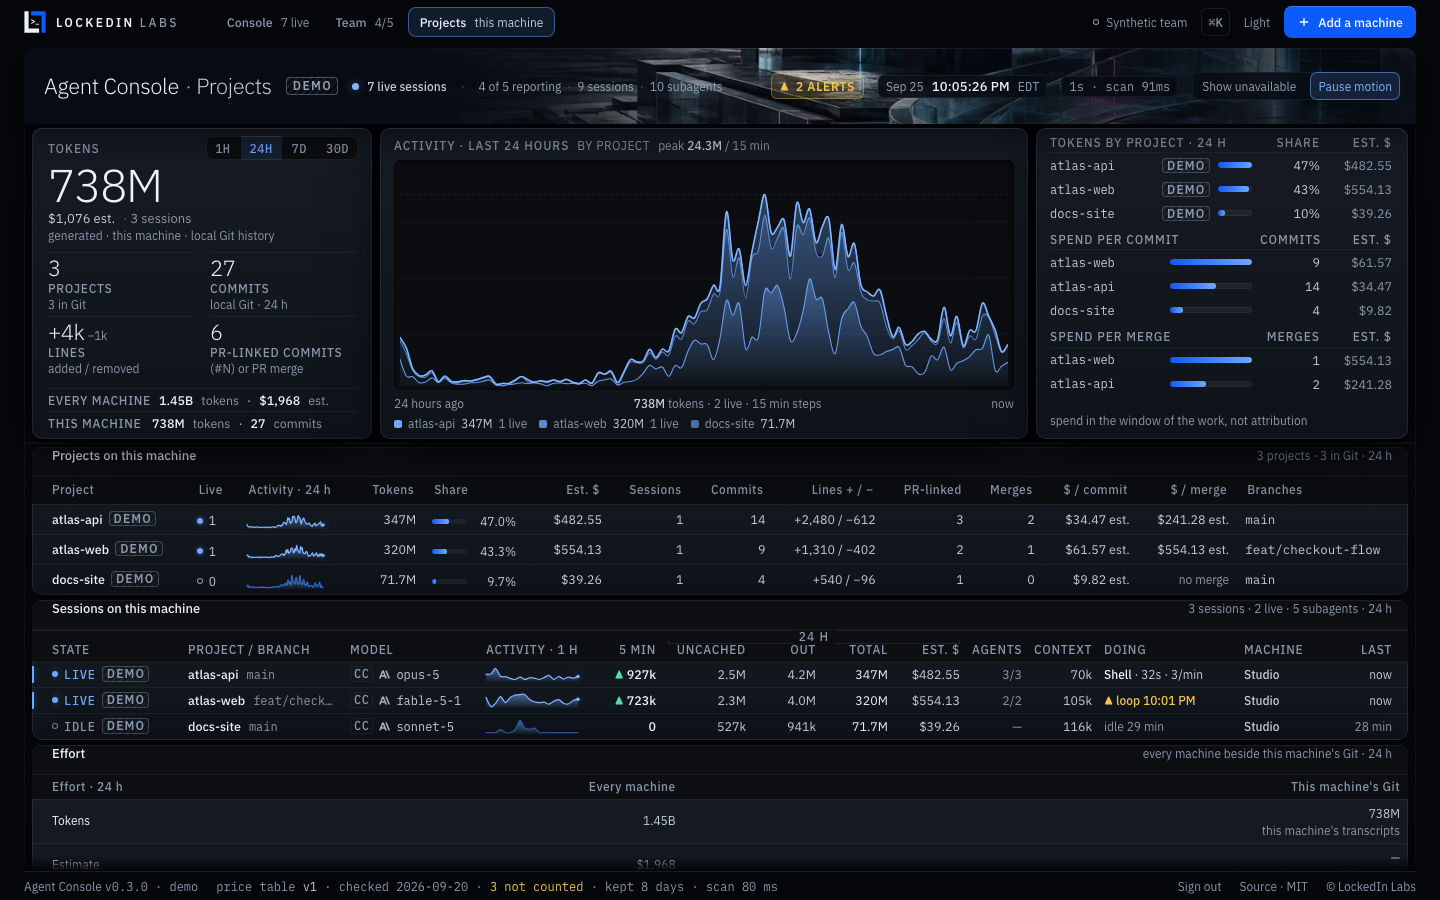
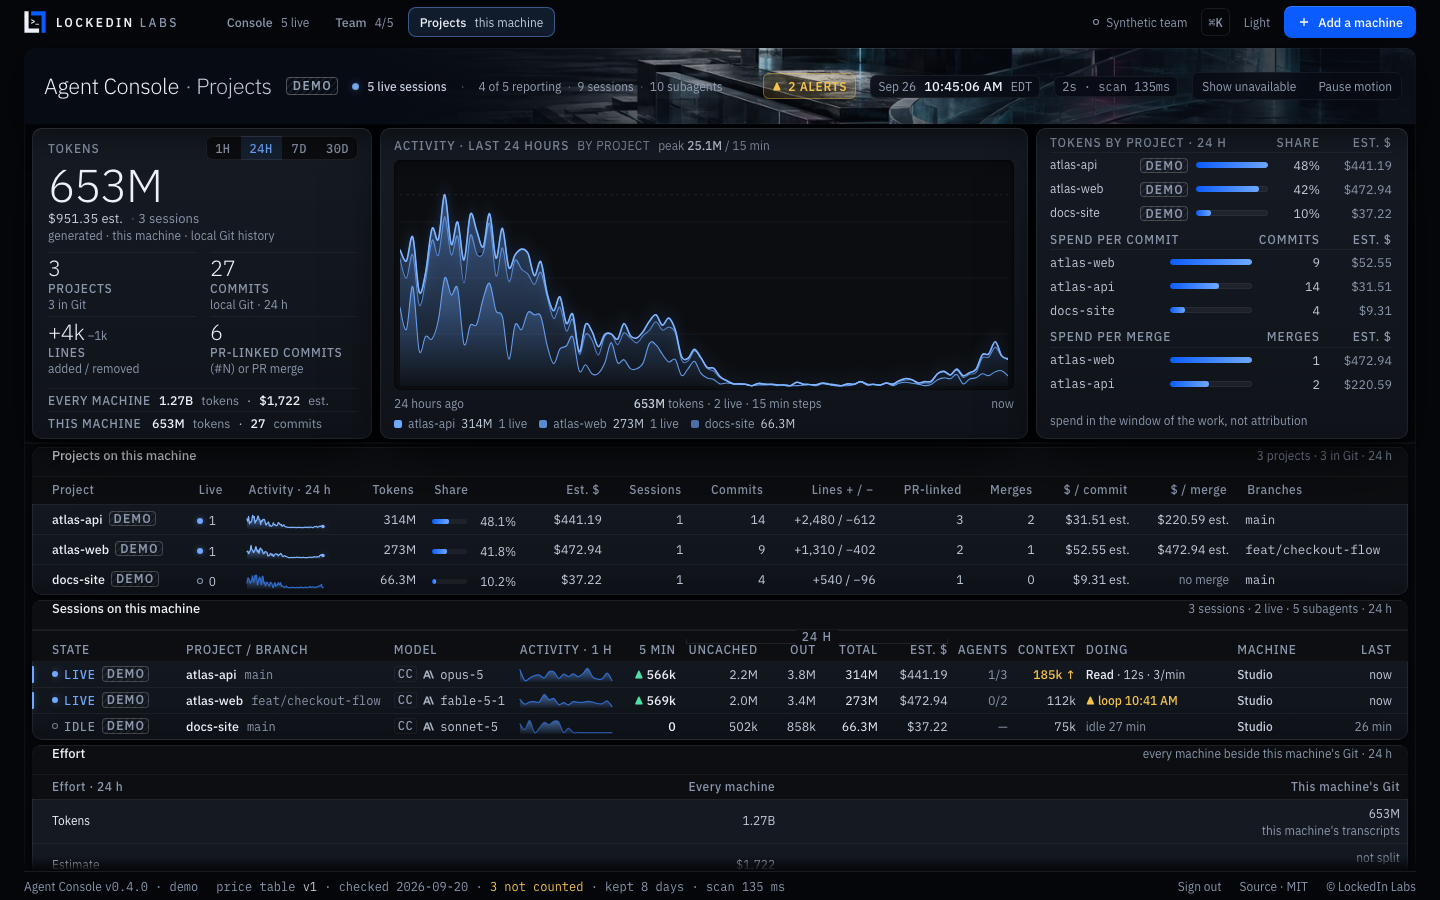
The lane name keeps its cell at 1440, the project ranking wraps its names, docs retaken
- The lane's project cell is a grid whose first track is the name's own
  width: the branch beside it takes what is left and gives way first, so a
  three-word project is never cut beside a four-letter branch, and alone it
  keeps the whole cell (the phone keeps the name over its branch).
- The desk grid (1440 up to 1799) holds each figure column to what its widest
  header or value needs, with a 10px gap, so the frame's room goes to the
  name first: its track is ~205px at 1440 (it was 150px, the grid's exact
  minimum), and the model's is 116px so a short model name stays whole.
- Projects' "tokens by project" rows give the name the room in the sans the
  table names them in, hold the bar to a short fixed span, and wrap a name
  longer than its track to a second line rather than cut it; the rows no
  longer push the band sideways at 360.
- The presented-page probe holds the source to no home path (the names are
  held by the walk over every text node and attribute); the join probe
  expects the demonstration's one warn line.
- README screenshots retaken from --demo on this build.

diff --git a/public/console.css b/public/console.css
@@ -308,8 +308,12 @@ body.paused .wave .top, .flowwrap.void .wave .top { filter: none; }
 .mrow { display: grid; grid-template-columns: calc(104px * var(--k)) auto 1fr calc(60px * var(--k)) calc(64px * var(--k)); align-items: center; gap: calc(8px * var(--k)); margin-top: calc(1px * var(--k)); line-height: 1.2; min-height: calc(17px * var(--k)); }
 /* a row that opens an inspector is a 24px target (WCAG 2.5.8): the type keeps its size, the row takes the height */
 .mrow.door { min-height: 24px; margin-top: 0; cursor: pointer; }
-/* a ranking of projects (R3-15): the name is the reading and keeps its words; the bar is the illustration and is fixed */
-.mrow.proj { grid-template-columns: minmax(calc(120px * var(--k)), 1fr) auto calc(90px * var(--k)) calc(60px * var(--k)) calc(64px * var(--k)); }
+/* a ranking of projects (R3-15): the name is the reading and takes the room, in the sans the Projects table names them in; the bar is the
+   illustration and is held to a short fixed span, the share and the estimate to what their figures need */
+.mrow.proj { grid-template-columns: minmax(0, 1fr) auto minmax(calc(48px * var(--k)), calc(72px * var(--k))) calc(44px * var(--k)) calc(64px * var(--k)); }
+/* a name longer than its track wraps to a second line (D07: two lines with the whole on hover, never an ellipsis on meaning) */
+.mrow.proj .mn { font-family: var(--sans); white-space: normal; }
+.mrow.proj .mn .txt { overflow: visible; text-overflow: clip; white-space: normal; line-height: 1.2; overflow-wrap: anywhere; }
 .mrow .ms { display: flex; min-width: 0; }
 .mrow .ms:empty { margin-left: calc(-8px * var(--k)); }
 .mn { font: 400 calc(12px * var(--k)) var(--mono); color: var(--ink2); white-space: nowrap; display: flex; align-items: center; gap: calc(6px * var(--k)); min-width: 0; }
@@ -474,9 +478,12 @@ body[data-demo="true"] .xrow.reporting .xn i { background: var(--lit); box-shado
 .lanescroll:focus-visible { outline: 2px solid var(--lit); outline-offset: -2px; }
 /* the state column is 124px at every width: room for the longest word the console says (REMOVED, RECONNECTING) beside the DEMO stamp, never a stamp cut to DEM;
    the last column is 60px, the width of a clock time, so a silent lane's last report is never cut */
-.lhead, .lane { display: grid; align-items: center; gap: calc(12px * var(--k)); padding: 0 calc(16px * var(--k)) 0 calc(20px * var(--k));
-  grid-template-columns: calc(124px * var(--k)) minmax(calc(150px * var(--k)), 1.2fr) minmax(calc(124px * var(--k)), .55fr) minmax(calc(92px * var(--k)), .5fr)
-    calc(66px * var(--k)) calc(78px * var(--k)) calc(58px * var(--k)) calc(60px * var(--k)) calc(60px * var(--k)) calc(50px * var(--k)) calc(58px * var(--k)) minmax(calc(128px * var(--k)), 1fr) minmax(calc(76px * var(--k)), .6fr) calc(60px * var(--k)); }
+/* the desk grid (1440 up to 1799): each figure column is held to what its widest header or value needs, so the room a 1440 frame has
+   beyond the minimum (its minimum is 1288px of the 1376px the frame holds) goes first to the project name (1.4fr), then to Doing,
+   the model, the machine and the activity — at 1440 the name's track is ~190px, wider than a twenty-six-character name (R3-04) */
+.lhead, .lane { display: grid; align-items: center; gap: calc(10px * var(--k)); padding: 0 calc(16px * var(--k)) 0 calc(20px * var(--k));
+  grid-template-columns: calc(124px * var(--k)) minmax(calc(160px * var(--k)), 1.4fr) minmax(calc(116px * var(--k)), .5fr) minmax(calc(92px * var(--k)), .4fr)
+    calc(54px * var(--k)) calc(72px * var(--k)) calc(48px * var(--k)) calc(52px * var(--k)) calc(60px * var(--k)) calc(50px * var(--k)) calc(58px * var(--k)) minmax(calc(120px * var(--k)), 1fr) minmax(calc(76px * var(--k)), .6fr) calc(60px * var(--k)); }
 .lhead { height: calc(32px * var(--k)); align-items: end; padding-bottom: 4px; font: 500 calc(12px * var(--k)) var(--sans); letter-spacing: .06em; text-transform: uppercase; color: var(--quiet); white-space: nowrap;
   background: var(--band-head); border-bottom: 1px solid var(--hair2); box-shadow: inset 0 1px 0 var(--rim); overflow: visible; position: relative; }
 .lhead span { overflow: hidden; }
@@ -517,12 +524,13 @@ body[data-demo="true"] .xrow.reporting .xn i { background: var(--lit); box-shado
 .lane.silent .st, .lane.revoked .st, .lane.catching-up .st, .lane.reconnecting .st { color: var(--quiet); }
 .lane.silent .st { color: var(--warn); }
 .lane.silent .st i, .lane.revoked .st i, .lane.catching-up .st i, .lane.reconnecting .st i { background: none; box-shadow: inset 0 0 0 1px currentColor; animation: none; }
-.lane .pr { min-width: 0; display: flex; align-items: baseline; gap: calc(8px * var(--k)); white-space: nowrap; overflow: hidden; }
-/* the name gives way only when a branch shares its cell (R3-04): alone it keeps the whole cell, so a three-word project is never cut beside empty room */
-.lane .pr b { font: 500 calc(12.5px * var(--k)) var(--sans); flex: none; max-width: 100%; overflow: hidden; text-overflow: ellipsis; color: var(--ink); }
-.lane .pr.branched b { max-width: 70%; }
+/* the name keeps its cell (R3-04): the cell is a grid whose first track takes the name's own width up to the cell, and the branch
+   (mono meta, its whole on the row's hover) takes what is left and gives way first — a three-word project is never cut beside a
+   four-letter branch, and alone it keeps the whole cell; only a name longer than the cell itself gives way, with the row's title */
+.lane .pr { min-width: 0; display: grid; grid-template-columns: minmax(0, auto) minmax(0, 1fr); align-items: baseline; column-gap: calc(8px * var(--k)); white-space: nowrap; overflow: hidden; }
+.lane .pr b { font: 500 calc(12.5px * var(--k)) var(--sans); min-width: 0; overflow: hidden; text-overflow: ellipsis; color: var(--ink); }
 .lane .pr b.hash { font: 400 calc(12px * var(--k)) var(--mono); color: var(--ink2); }
-.lane .pr em { font-style: normal; font: 400 calc(12px * var(--k)) var(--mono); color: var(--quiet); overflow: hidden; text-overflow: ellipsis; }
+.lane .pr em { font-style: normal; font: 400 calc(12px * var(--k)) var(--mono); color: var(--quiet); min-width: 0; overflow: hidden; text-overflow: ellipsis; }
 .lane .md { font: 400 calc(12px * var(--k)) var(--mono); color: var(--ink2); white-space: nowrap; overflow: hidden; display: flex; align-items: center; gap: 6px; min-width: 0; }
 /* the tool as a chip before the model, whole at every width; the model name is the part that gives way, its whole on hover */
 .lane .md .tool { font-style: normal; font: 500 calc(12px * var(--k))/16px var(--mono); letter-spacing: .04em; color: var(--quiet); padding: 0 4px; border-radius: 3px; box-shadow: inset 0 0 0 1px var(--hair2); flex: none; }
@@ -990,8 +998,7 @@ body[data-present] .mhead:not(.tools):not(.people) > span:last-child, body[data-
 @media (min-width: 1241px) and (max-width: 1439px) {
   .lhead, .lane { gap: 8px; grid-template-columns: calc(124px * var(--k)) minmax(calc(160px * var(--k)), 1.2fr) minmax(calc(97px * var(--k)), .5fr) minmax(calc(93px * var(--k)), .4fr)
     calc(41px * var(--k)) calc(32px * var(--k)) calc(32px * var(--k)) calc(43px * var(--k)) calc(51px * var(--k)) calc(52px * var(--k)) calc(60px * var(--k)) minmax(calc(116px * var(--k)), 1fr) minmax(calc(76px * var(--k)), .5fr) calc(60px * var(--k)); }
-  /* the project name stays whole in the 160px track: "project b1d604" is 101px, and 70% of 160 (112) holds it; the branch or agent beside it takes the ellipsis, the whole on hover */
-  .lane .pr b { max-width: 70%; }
+  /* the project name stays whole in the 160px track: the cell's first track takes the name's own width, and the branch beside it takes the ellipsis, the whole on hover */
 }
 /* below 1440 the uncached-input column is 32px: its header is the short word, the long one on hover */
 @media (max-width: 1439px) {
@@ -1135,7 +1142,7 @@ body[data-present] .mhead:not(.tools):not(.people) > span:last-child, body[data-
   .lhead .c-tot, .lane .tot { order: 5; }
   .lhead .c-md, .lane .md { order: 6; }
   .lhead .c-sp, .lane .sp { order: 7; }
-  .lane .pr { flex-direction: column; align-items: flex-start; gap: 0; line-height: 1.15; justify-content: center; }
+  .lane .pr { display: flex; flex-direction: column; align-items: flex-start; gap: 0; line-height: 1.15; justify-content: center; }
   .lane .pr b { max-width: 100%; }
   .lane .pr em { font-size: 12px; max-width: 100%; }
   .lane { height: 44px; cursor: pointer; }

diff --git a/test/console-layout.test.js b/test/console-layout.test.js
@@ -179,7 +179,7 @@ test("a row that opens an inspector is a 24px target, and the type keeps its siz
   assert.match(JS, /<div class="xrow door \$\{d\.status\}" title=/u);
   assert.match(JS, /<div class="xrow msgs door" data-inspect="person:/u);
   assert.equal((JS.match(/<div class="mrow (?:proj )?door" data-inspect="project:/gu) || []).length, 3, "share, spend-per-commit and spend-per-merge rows");
-  assert.match(CSS, /\.mrow\.proj \{ grid-template-columns: minmax\(calc\(120px \* var\(--k\)\), 1fr\)/u, "the share rows give the project name the room (R3-15)");
+  assert.match(CSS, /\.mrow\.proj \{ grid-template-columns: minmax\(0, 1fr\) auto/u, "the share rows give the project name the room (R3-15)");
 });
 
 test("on a phone the hour axis caption, the person's machine status and the lane's DEMO stamp are shown whole", () => {
@@ -203,7 +203,7 @@ test("on a phone the hour axis caption, the person's machine status and the lane
   const [, padL, phoneGap, st, pr, fm, la] = phoneRule.map(Number);
   assert.ok(padL + st + pr + fm + 2 * phoneGap <= 354, `the on-screen three end at ${padL + st + pr + fm + 2 * phoneGap}px, past the 354px the scroller shows at 390`);
   assert.equal(pr, 120, "the name has 120px, its branch on a 12px second line");
-  assert.match(phone, /\.lane \.pr \{ flex-direction: column;/u);
+  assert.match(phone, /\.lane \.pr \{ display: flex; flex-direction: column;/u);
   assert.ok(la >= 60, "Last holds a clock time on a phone");
   assert.equal((CSS.match(/grid-template-columns: calc\(124px \* var\(--k\)\) minmax\(calc\(1[3-9]\dpx \* var\(--k\)\)/gu) || []).length, 5, "desk, narrow, narrow from 1280, folded and wide lane grids");
   assert.doesNotMatch(CSS, /grid-template-columns: calc\((96|104)px \* var\(--k\)\) minmax\(calc\(1[3-9]\dpx/u);
@@ -232,10 +232,11 @@ test("between 1241 and 1439 every lane column fits the frame, header and value, 
   // the whole minimum fits the frame at 1241: 1241 − 2 × 24px shell − 2 × 8px tray = 1177px for the row, less its own 20px + 16px padding
   const minimum = mins.reduce((a, b) => a + b, 0) + 13 * gap + 36;
   assert.ok(minimum <= 1177, `the lane grid's minimum is ${minimum}px, more than the 1177px the frame has at 1241`);
-  // the project name stays whole in the project track's minimum: "project b1d604" is 101px in Plex Mono 12px, and the name's share of the cell must hold it
-  const share = narrow.match(/\.lane \.pr b \{ max-width: (\d+)%; \}/u);
-  assert.ok(share, "the name's share of the project cell at this width");
-  assert.ok((mins[1] * Number(share[1])) / 100 >= 101, `the project name gets ${(mins[1] * Number(share[1])) / 100}px of a ${mins[1]}px track, less than the 101px "project b1d604" needs`);
+  // the project name stays whole in the project track's minimum: "project b1d604" is 101px in Plex Mono 12px; the cell is a grid whose
+  // first track is the name's own width (R3-04), so the name may take the whole track and the branch gives way first — no fixed share
+  assert.doesNotMatch(narrow, /\.lane \.pr b \{ max-width: \d+%; \}/u, "no fixed cap on the name's share of the project cell");
+  assert.match(CSS, /\.lane \.pr \{ min-width: 0; display: grid; grid-template-columns: minmax\(0, auto\) minmax\(0, 1fr\);/u);
+  assert.ok(mins[1] >= 101, `the project track is ${mins[1]}px, less than the 101px "project b1d604" needs`);
   // the desk grid (1440 and up) keeps its own tracks, and its minimum fits 1440's 1376px (1440 − 48 shell − 16 tray)
   const desk = CSS.match(/\n\.lhead, \.lane \{ display: grid;[^}]*grid-template-columns: ([^}]*); \}/u);
   assert.ok(desk, "the desk lane grid");

diff --git a/test/console-round3.test.js b/test/console-round3.test.js
@@ -159,9 +159,10 @@ test("R3-13: a demonstration's join page shows one warn line, and its add-link s
 });
 
 test("R3-04/R3-05/R3-07/R3-08/R3-12/R3-15: the CSS and source shapes of the smaller gaps", () => {
-  // the lane name gives way only beside a branch
-  assert.match(CSS, /\.lane \.pr b \{ font: 500 calc\(12\.5px \* var\(--k\)\) var\(--sans\); flex: none; max-width: 100%;/u);
-  assert.match(CSS, /\.lane \.pr\.branched b \{ max-width: 70%; \}/u);
+  // the lane name keeps its cell: the cell is a grid whose first track is the name's own width, the branch takes what is left
+  assert.match(CSS, /\.lane \.pr \{ min-width: 0; display: grid; grid-template-columns: minmax\(0, auto\) minmax\(0, 1fr\);/u);
+  assert.doesNotMatch(CSS, /\.lane \.pr b \{[^}]*max-width: 70%/u, "no fixed cap on the name at desk width");
+  assert.match(CSS, /\.lane \.pr \{ display: flex; flex-direction: column;/u, "the phone keeps the name over its branch");
   assert.match(JS, /row\.querySelector\("\.pr"\)\.classList\.toggle\("branched", Boolean\(branchName\)\);/u);
   // an inspector row: the name-and-branch cell takes most of the row, and inside it only the branch gives way
   assert.match(CSS, /\.inspect \.irow \{ display: grid; grid-template-columns: minmax\(0, 2\.2fr\) minmax\(0, 1fr\) 56px 46px;/u);
@@ -181,7 +182,7 @@ test("R3-04/R3-05/R3-07/R3-08/R3-12/R3-15: the CSS and source shapes of the smal
   assert.match(HOUSE, /\.lockup \{[^}]*min-height: 24px; padding: 1px 0; \}/u);
   assert.match(CSS, /\.console > \.col:hover \{ transform: translateY\(-2px\); box-shadow: inset 0 1px 0 color-mix\(in srgb, var\(--card-rim\) 70%, #fff\)/u);
   // a project ranking gives the name the room and fixes the bar
-  assert.match(CSS, /\.mrow\.proj \{ grid-template-columns: minmax\(calc\(120px \* var\(--k\)\), 1fr\) auto calc\(90px \* var\(--k\)\)/u);
+  assert.match(CSS, /\.mrow\.proj \{ grid-template-columns: minmax\(0, 1fr\) auto minmax\(calc\(48px \* var\(--k\)\), calc\(72px \* var\(--k\)\)\) calc\(44px \* var\(--k\)\)/u);
   assert.match(JS, /<div class="mrow proj door" data-inspect="project:/u);
 });
 

diff --git a/CHANGELOG.md b/CHANGELOG.md
@@ -30,8 +30,10 @@
   and prints 0; the head reads "7 of 9 kept days with usage"; a day the
   rollup holds only in part is marked "part held" with a "+" on its figure
   (`series["30d"].whole`).
-- A project name alone in its lane cell keeps the whole cell; the 70% cap
-  applies only when a branch shares the cell. In every inspector's session
+- A project name keeps its lane cell: the cell's first track is the name's
+  own width, and the branch beside it takes what is left and gives way
+  first, so a three-word project is never cut beside a four-letter branch
+  and alone it keeps the whole cell. In every inspector's session
   rows the name-and-branch column takes most of the row (2.2fr against the
   model's 1fr, 56px and 46px for the figure and the state), and inside it
   only the branch gives way; below 400px the branch goes under the name.
@@ -128,6 +130,20 @@
   fix behind a proxy or TLS inspection (`HTTPS_PROXY`, `NODE_USE_ENV_PROXY=1`,
   `NODE_EXTRA_CA_CERTS`). The check's SHA-256 is now
[1 lines of base64/hex data omitted]
+- Sessions are per machine: two machines reporting one session hash (a
+  synced home folder, a copied transcript that went on elsewhere) used to
+  show as one lane on whichever reported last; the store now keeps a session
+  per (machine, session hash), and lane roots, subagent trees, per-session
+  tokens, period session counts, Projects' sessions and alert magnitudes
+  follow. Each machine keeps its own lane, tokens and activity; the records
+  they share are still counted once. A lane's key adds "-" and 8 hex
+  characters of its machine only when two machines share the hash, and an
+  alert opens its own machine's lane.
+- The README's Options section says where transcripts are found and names
+  `AGENT_CONSOLE_ADVERTISE`; `--help` points to that list instead of
+  claiming every option has a variable; `--poll-ms` (`AGENT_CONSOLE_POLL_MS`)
+  now sets how often this machine's transcripts are read (default 2000 ms,
+  at least 1000) — it was accepted and ignored.
 
 ### Distribution
 
